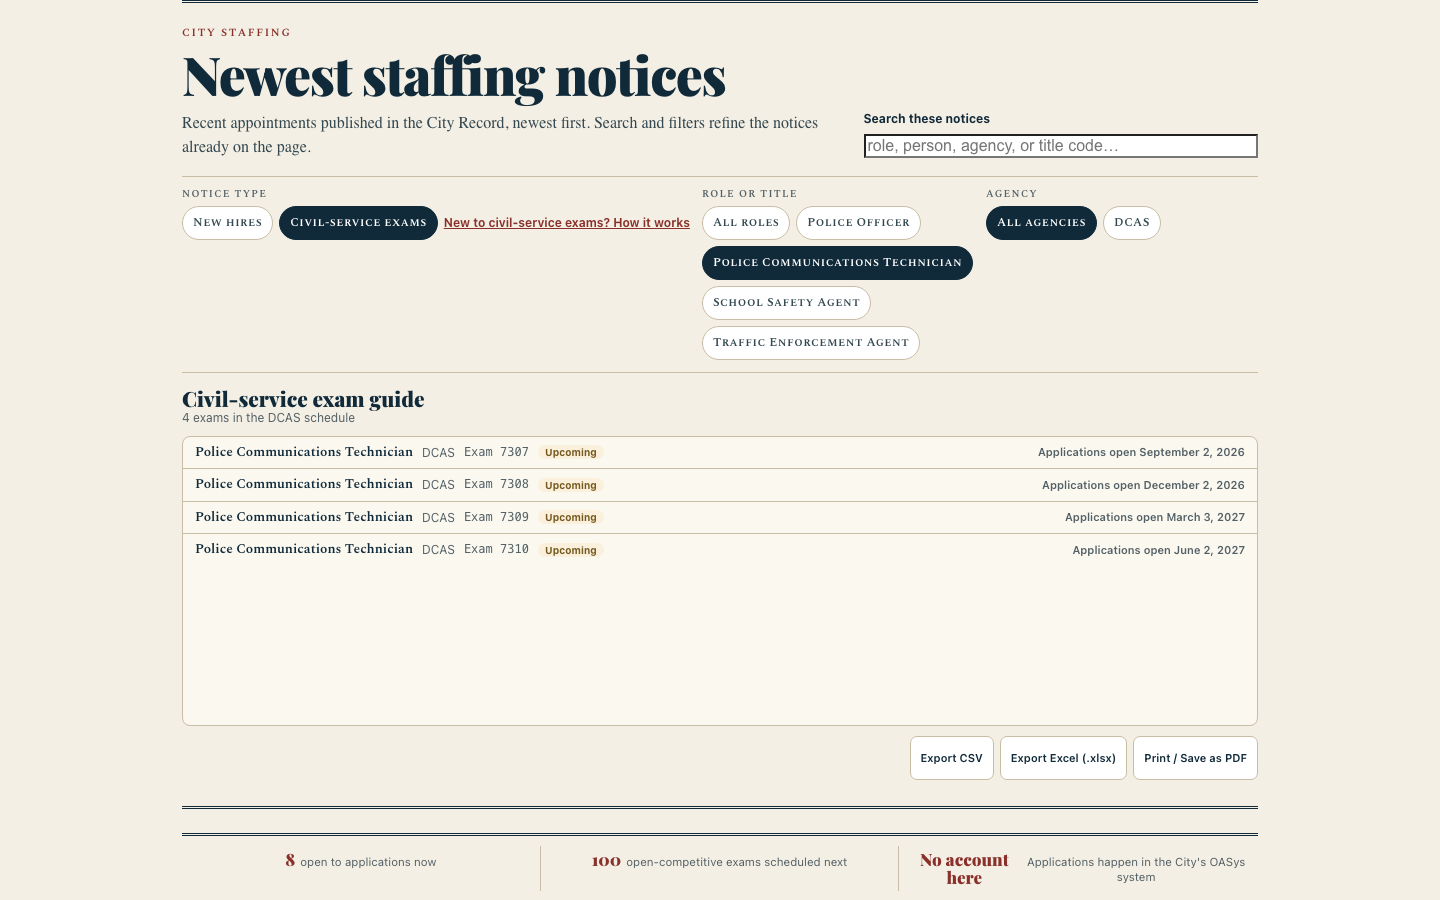
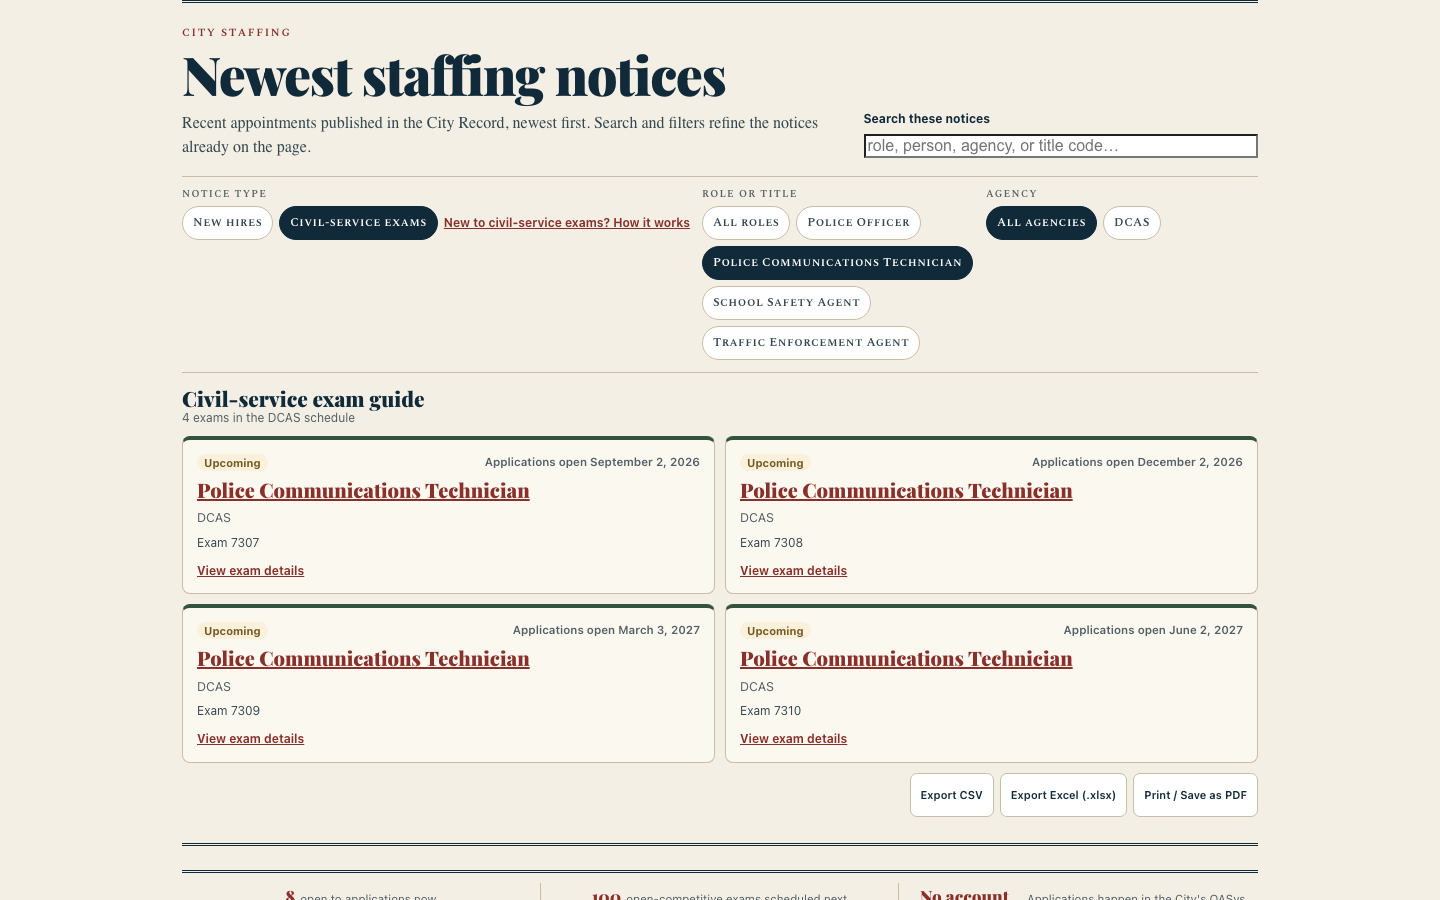
Render staffingExamCardHTML for filtered civil-service exams
When type is exam and staffingVisibleItems() is non-empty, paint exam cards
in the notice list instead of redirect-only copy so count, list, and export
describe the same set.

diff --git a/site/index.html b/site/index.html
@@ -400,8 +400,15 @@
   .staffing-hire-agency{font:12px/1.3 ui-sans-serif,system-ui,sans-serif;color:var(--muted)}
   .staffing-hire-fact{font:12px/1.3 ui-monospace,Menlo,monospace;color:var(--muted)}
   .staffing-hire-date{font:600 11px/1.3 ui-sans-serif,system-ui,sans-serif;color:var(--muted);white-space:nowrap;margin-left:auto}
-  .staffing-hire-row[data-kind="exam"]>a{align-items:center}
-  .staffing-hire-row[data-kind="exam"] .tag{flex:0 0 auto;font-size:10px;padding:2px 7px}
+  .staffing-notice-list:has(.staffing-notice-card){display:grid;grid-template-columns:repeat(2,minmax(0,1fr));gap:10px;overflow:visible;background:transparent;border:0;padding:0}
+  .staffing-notice-card{background:var(--card);border:1px solid var(--rule);border-top:4px solid var(--blue);border-radius:8px;padding:14px;min-width:0;display:flex;flex-direction:column;gap:8px}
+  .staffing-notice-card[data-kind="exam"]{border-top-color:var(--green)}
+  .staffing-notice-top{display:flex;justify-content:space-between;align-items:center;gap:8px}
+  .staffing-notice-date{font:600 11.5px/1.3 ui-sans-serif,system-ui,sans-serif;color:var(--muted);white-space:nowrap}
+  .staffing-notice-card h4{font:800 20px/1.13 var(--font-display);margin:0;overflow-wrap:anywhere}
+  .staffing-notice-agency{font:12.5px/1.4 ui-sans-serif,system-ui,sans-serif;color:var(--muted);margin:0}
+  .staffing-notice-facts{display:flex;gap:6px 12px;flex-wrap:wrap;font:12px/1.4 ui-sans-serif,system-ui,sans-serif;color:var(--ink-soft)}
+  .staffing-notice-card .view{margin-top:auto;padding-top:3px;font:650 12px/1.4 ui-sans-serif,system-ui,sans-serif}
   .staffing-upcoming{border:1px solid var(--rule);border-top:5px solid var(--green);border-radius:8px;background:var(--card);padding:15px;margin-bottom:24px}
   .staffing-upcoming-head{display:flex;align-items:baseline;justify-content:space-between;gap:12px;flex-wrap:wrap}
   .staffing-upcoming-head h3{font:800 22px/1.12 var(--font-display);margin:0}
@@ -516,6 +523,7 @@
     .staffing-filter-group:first-child .staffing-filter-options{flex-wrap:wrap;overflow:visible}
     .staffing-filter-options .chip,.staffing-exam-help{flex:0 0 auto}
     .staffing-feed-meta{display:block}.staffing-feed-meta p{margin-top:4px}
+    .staffing-notice-list:has(.staffing-notice-card){grid-template-columns:1fr}
     .staffing-upcoming-list{display:flex;overflow-x:auto;scroll-snap-type:x proximity;padding-bottom:4px}
     .staffing-upcoming-item{flex:0 0 82%;scroll-snap-align:start}
     .career-fact{display:block;padding:4px 5px}.career-fact b,.career-fact span{display:block}.career-fact b{font-size:15px}.career-fact span{font-size:10px}
@@ -3503,16 +3511,17 @@ function staffingHireRowHTML(item){
     </a>
   </article>`;
 }
-function staffingExamRowHTML(item){
+function staffingExamCardHTML(item){
   const exam=item.exam, status=CrolStaffing.statusFor(exam,careerToday());
-  return `<article class="staffing-hire-row" data-kind="exam">
-    <a href="#exam/${encodeURIComponent(exam.exam_number)}">
-      <span class="staffing-hire-role" lang="en" dir="ltr">${escUiHtml(exam.title)}</span>
-      <span class="staffing-hire-agency" lang="en" dir="ltr">DCAS</span>
-      <span class="staffing-hire-fact">${t("career_exam_number",{number:escUiHtml(exam.exam_number)})}</span>
+  return `<article class="staffing-notice-card" data-kind="exam">
+    <div class="staffing-notice-top">
       <span class="tag ${careerStatusClass(status)}">${careerStatusLabel(status)}</span>
-      <span class="staffing-hire-date">${careerWindowText(exam,status)}</span>
-    </a>
+      <span class="staffing-notice-date">${careerWindowText(exam,status)}</span>
+    </div>
+    <h4><a href="#exam/${encodeURIComponent(exam.exam_number)}" lang="en" dir="ltr">${escUiHtml(exam.title)}</a></h4>
+    <p class="staffing-notice-agency"><span lang="en" dir="ltr">DCAS</span></p>
+    <div class="staffing-notice-facts"><span>${t("career_exam_number",{number:escUiHtml(exam.exam_number)})}</span></div>
+    <a class="view" href="#exam/${encodeURIComponent(exam.exam_number)}">${t("staffing_view_exam_detail")}</a>
   </article>`;
 }
 function syncStaffingModeUI(){
@@ -3551,7 +3560,7 @@ function renderStaffingFeed(){
   // Count, list, and people-lens export all use staffingVisibleItems() — never replace a
   // non-empty exam set with redirect-only copy (that desynced list vs export/count).
   $("#staffing-notice-list").innerHTML=items.length
-    ? items.map(item=>item.kind==="exam"?staffingExamRowHTML(item):staffingHireRowHTML(item)).join("")
+    ? items.map(item=>item.kind==="exam"?staffingExamCardHTML(item):staffingHireRowHTML(item)).join("")
     : `<div class="career-empty">${t("staffing_no_results")}</div>`;
 }
 async function loadStaffingFeed(){
